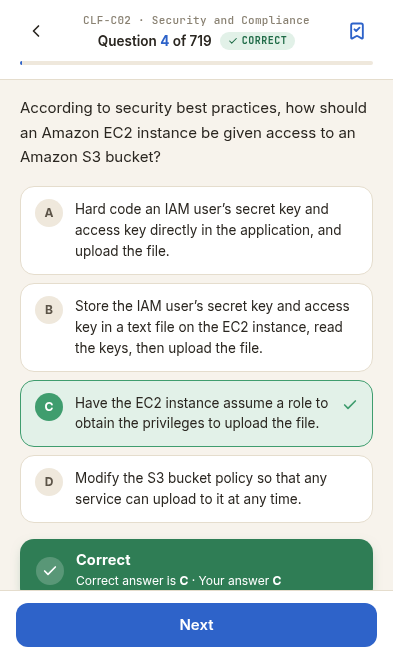
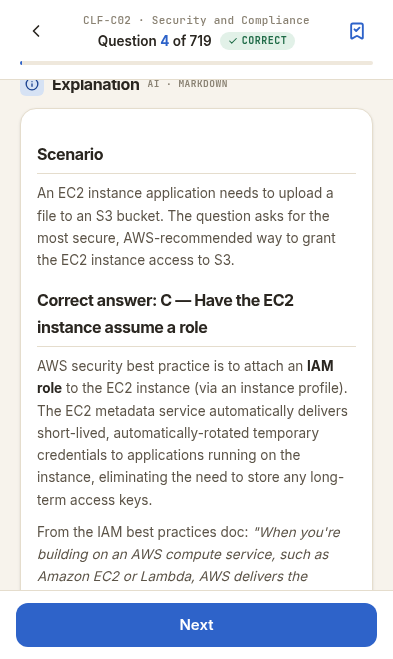
fix: Capture README explanation screenshots

Changed region(s): [[0.0305, 0.1214, 0.9466, 0.9105]]

diff --git a/scripts/readme-screenshots/capture.ts b/scripts/readme-screenshots/capture.ts
@@ -111,6 +111,7 @@ async function captureEntry(
     })
     await page.waitForLoadState('networkidle', { timeout: 10_000 }).catch(() => undefined)
     await page.waitForTimeout(250)
+    await prepareEntryForCapture(page, entry)
     await page.screenshot({
       path: path.join(README_SCREENSHOT_ASSET_DIR, entry.output),
       scale: 'css',
@@ -119,6 +120,24 @@ async function captureEntry(
   } finally {
     await context.close()
   }
+}
+
+async function prepareEntryForCapture(
+  page: Awaited<ReturnType<BrowserContext['newPage']>>,
+  entry: ReadmeScreenshotEntry,
+) {
+  if (entry.capture?.scrollTo !== 'explanation') return
+
+  const explanation = page
+    .locator('section')
+    .filter({ has: page.getByRole('heading', { name: /^(Explanation|解析)$/ }) })
+    .first()
+  await explanation.waitFor({ state: 'visible' })
+  await explanation.evaluate((element) => {
+    element.scrollIntoView({ block: 'start', inline: 'nearest' })
+    window.scrollBy(0, -72)
+  })
+  await page.waitForTimeout(100)
 }
 
 async function gotoEntryPath(

diff --git a/scripts/readme-screenshots/manifest.ts b/scripts/readme-screenshots/manifest.ts
@@ -7,6 +7,9 @@ export interface ReadmeScreenshotEntry {
   output: string
   theme?: 'light' | 'dark'
   auth?: 'signed-in'
+  capture?: {
+    scrollTo?: 'explanation'
+  }
 }
 
 export const README_SCREENSHOT_ASSET_DIR = 'assets/readme'
@@ -121,12 +124,14 @@ export const README_SCREENSHOT_MANIFEST: ReadmeScreenshotEntry[] = [
     path: '/practice/clf-c02/4',
     locale: 'en',
     output: 'practice-explanation-en.png',
+    capture: { scrollTo: 'explanation' },
   },
   {
     name: 'practice-explanation-zh',
     path: '/practice/clf-c02/4',
     locale: 'zh',
     output: 'practice-explanation-zh.png',
+    capture: { scrollTo: 'explanation' },
   },
   {
     name: 'practice-wrong-en',

diff --git a/tests/readme-screenshot-manifest.test.ts b/tests/readme-screenshot-manifest.test.ts
@@ -53,6 +53,14 @@ describe('README screenshot manifest', () => {
     ])
   })
 
+  it('scrolls explanation screenshots to the explanation card before capture', () => {
+    expect(
+      README_SCREENSHOT_MANIFEST.filter((entry) => entry.capture?.scrollTo === 'explanation').map(
+        (entry) => entry.output,
+      ),
+    ).toEqual(['practice-explanation-en.png', 'practice-explanation-zh.png'])
+  })
+
   it('rejects duplicate output filenames', () => {
     expect(() =>
       assertUniqueReadmeScreenshotOutputs([
